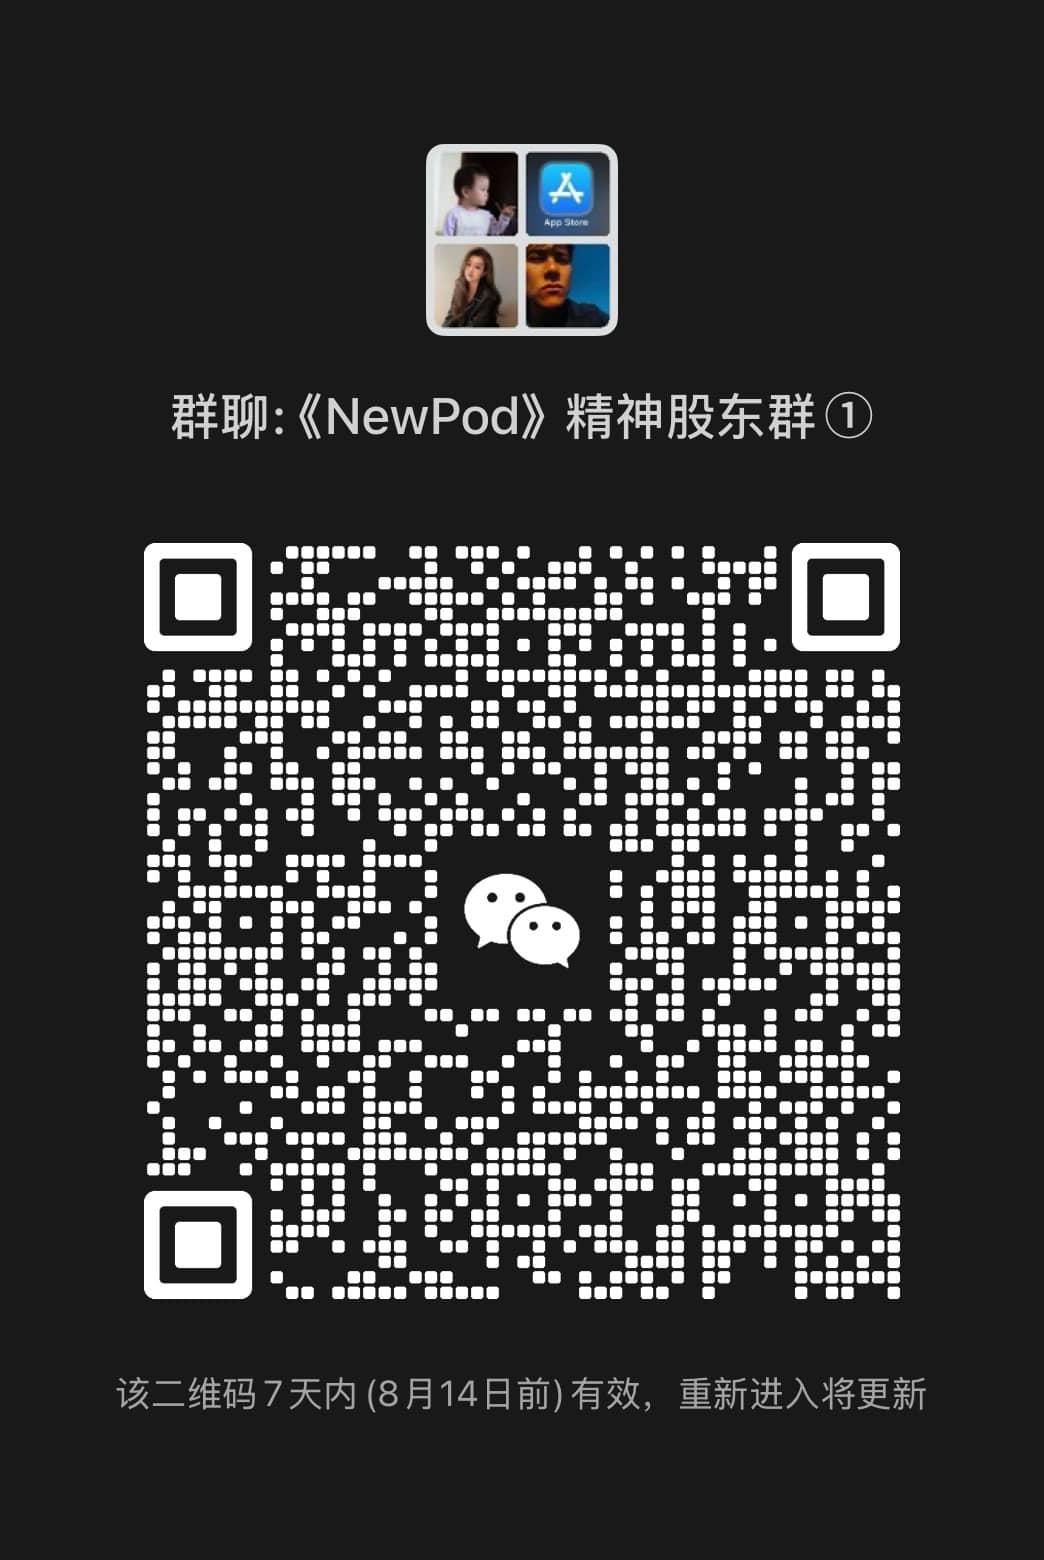
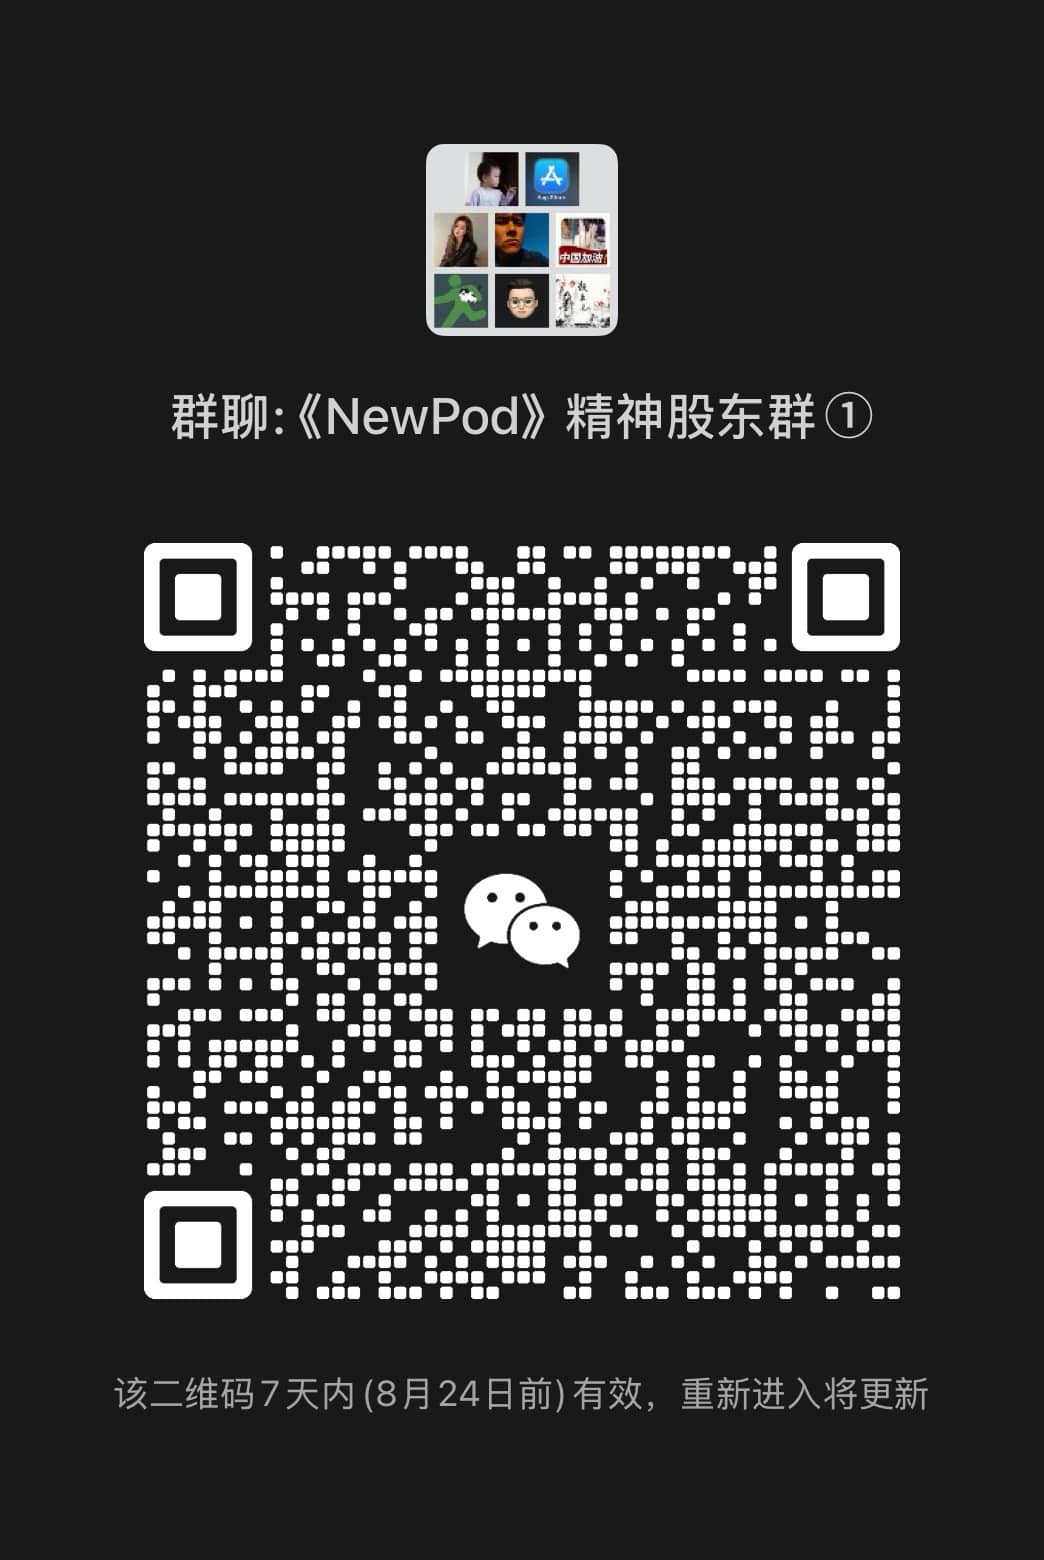
用户群更新

diff --git a/user/newpod/group/index.html b/user/newpod/group/index.html
@@ -267,7 +267,7 @@
 
       <div class="expiry">
         <span class="expiry-dot"></span>
-        <span>二维码有效期至 8月14日</span>
+        <span>二维码有效期至 8月24日</span>
       </div>
     </div>
 
